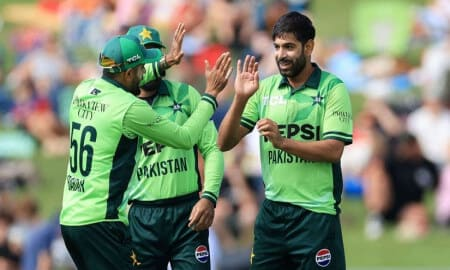
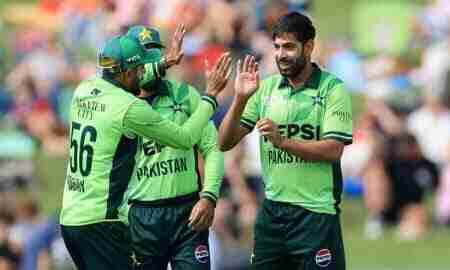
largent contenful

diff --git a/index.html b/index.html
@@ -579,7 +579,7 @@
                 <div class="card-body p-0 ps-3">
                   <h5 class="card-title text-dark hover-text-primary">
                     <span class="text-muted me-2">ইসরায়েলকে কঠিন শাস্তির হুমকি /</span>
-                    ইরান আত্মসমর্পণ করবে না, বললেন খামেনি
+                    <p>ইরান আত্মসমর্পণ করবে না, বললেন খামেনি </p>
                   </h5>
                 </div>
               </div>
@@ -1150,7 +1150,7 @@
     </div>
     <div class="container">
       <div style="width: fit-content; margin: 0 auto;">
-        <img class="img-fluid" src="assets/img/97090.gif" alt="ads" />
+        <img class="img-fluid" src="assets/img/97090.gif" alt="ads" loading="lazy" />
       </div>
     </div>
   </section>
@@ -1376,7 +1376,7 @@
   <section class="ads-section">
     <div class="container mt-4">
       <div style="width: fit-content; margin: 0 auto">
-        <img class="img-fluid" src="assets/img/97090.gif" alt="ads" srcset="" />
+        <img class="img-fluid" src="assets/img/97090.gif" alt="ads" srcset="" loading="lazy" />
       </div>
     </div>
   </section>
@@ -1607,7 +1607,7 @@
       </div>
       <div class="container">
         <div style="width: fit-content; margin: 0 auto">
-          <img class="img-fluid" src="assets/img/97090.gif" alt="ads" srcset="" />
+          <img class="img-fluid" src="assets/img/97090.gif" alt="ads" srcset="" loading="lazy" />
         </div>
       </div>
   </section>
@@ -2360,7 +2360,7 @@
       </div>
       <div class="container">
         <div class="py-1" style="width: fit-content; margin: 0 auto;">
-          <img class="img-fluid" src="assets/img/97090.gif" alt="ads" srcset="" />
+          <img class="img-fluid" src="assets/img/97090.gif" alt="ads" srcset="" loading="lazy"/>
         </div>
       </div>
   </section>
